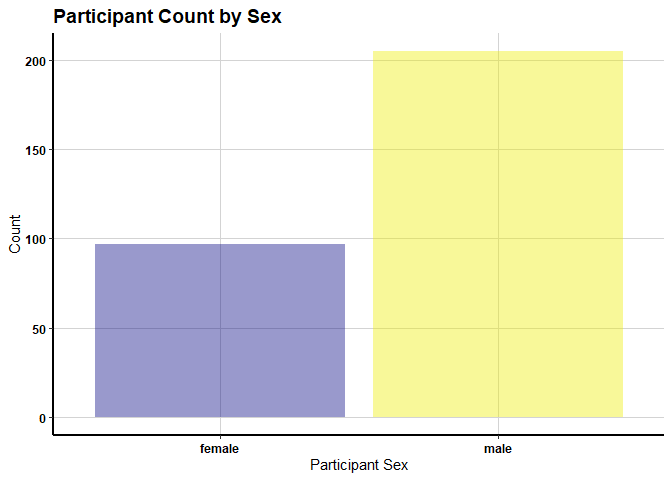
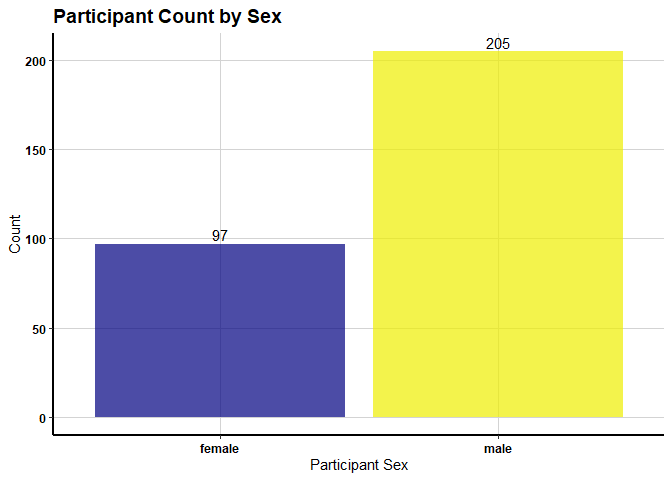
Update histogram

diff --git a/README.md b/README.md
@@ -245,11 +245,6 @@ source("205_Histograms.R", echo = TRUE)
     ## 
     ## > b <- ggplot(CHDgroup, aes(x = age))
     ## 
-    ## > b + geom_histogram(bins = 30)
-
-![](README_files/figure-gfm/histograms-1.png)<!-- -->
-
-    ## 
     ## > b + geom_histogram(bins = 30, color = "black", fill = "navy", 
     ## +     alpha = 0.4) + labs(title = "Participant Count by Age", y = "Count", 
     ## +     x = .... [TRUNCATED]
@@ -290,7 +285,7 @@ source("205_Histograms.R", echo = TRUE)
     ## Warning in grid.Call(C_textBounds, as.graphicsAnnot(x$label), x$x, x$y, :
     ## font family not found in Windows font database
 
-![](README_files/figure-gfm/histograms-2.png)<!-- -->
+![](README_files/figure-gfm/histograms-1.png)<!-- -->
 
     ## 
     ## > ggplot(CHDgroup, aes(sex)) + geom_bar(fill = c("navy", 
@@ -333,7 +328,7 @@ source("205_Histograms.R", echo = TRUE)
     ## Warning in grid.Call(C_textBounds, as.graphicsAnnot(x$label), x$x, x$y, :
     ## font family not found in Windows font database
 
-![](README_files/figure-gfm/histograms-3.png)<!-- -->
+![](README_files/figure-gfm/histograms-2.png)<!-- -->
 
     ## 
     ## > df <- CHDgroup %>% group_by(sex) %>% summarize(counts = n())
@@ -347,9 +342,9 @@ source("205_Histograms.R", echo = TRUE)
     ## 
     ## > c <- ggplot(df, aes(x = sex, y = counts))
     ## 
-    ## > c + geom_bar(stat = "identity") + geom_text(aes(label = counts), 
-    ## +     vjust = -0.3) + labs(title = "Participant Count by Sex", 
-    ## +     y = "Count", .... [TRUNCATED]
+    ## > c + geom_bar(stat = "identity", fill = c("navy", "yellow2"), 
+    ## +     alpha = 0.7) + geom_text(aes(label = counts), vjust = -0.3) + 
+    ## +     labs(title  .... [TRUNCATED]
 
     ## Warning in grid.Call(C_textBounds, as.graphicsAnnot(x$label), x$x, x$y, :
     ## font family not found in Windows font database
@@ -387,26 +382,40 @@ source("205_Histograms.R", echo = TRUE)
     ## Warning in grid.Call(C_textBounds, as.graphicsAnnot(x$label), x$x, x$y, :
     ## font family not found in Windows font database
 
+![](README_files/figure-gfm/histograms-3.png)<!-- -->
+
+    ## 
+    ## > df <- CHDgroup
+    ## 
+    ## > df$sex <- factor(df$sex, levels = levels(df$sex)[order(levels(df$sex), 
+    ## +     decreasing = T)])
+    ## 
+    ## > e <- ggplot(df, aes(x = age))
+    ## 
+    ## > e + geom_histogram(bins = 30, aes(color = sex, fill = sex), 
+    ## +     alpha = 0.4, position = "identity") + scale_color_manual(values = c("navy", 
+    ## +    .... [TRUNCATED]
+
 ![](README_files/figure-gfm/histograms-4.png)<!-- -->
 
     ## 
-    ## > d <- ggplot(CHDgroup, aes(x = age))
-    ## 
-    ## > d + geom_histogram(bins = 30, aes(color = sex), fill = "white", 
-    ## +     position = "identity") + scale_color_manual(values = c("#00AFBB", 
-    ## +     "#E7 ..." ... [TRUNCATED]
+    ## > e + geom_histogram(bins = 30, aes(color = sex, fill = sex), 
+    ## +     alpha = 0.4, position = "identity") + labs(title = "Participant Count by Sex and  ..." ... [TRUNCATED]
 
 ![](README_files/figure-gfm/histograms-5.png)<!-- -->
 
     ## 
-    ## > d + geom_histogram(aes(color = sex, fill = sex), alpha = 0.4, 
-    ## +     position = "identity") + labs(title = "Participant Count by Age and Sex", 
-    ## +    .... [TRUNCATED]
+    ## > e + geom_histogram(bins = 30, aes(color = sex, fill = sex), 
+    ## +     alpha = 0.4, position = "identity") + labs(title = "Participant Count by Sex and  ..." ... [TRUNCATED]
 
-    ## `stat_bin()` using `bins = 30`. Pick better value with `binwidth`.
-
-    ## Warning in grid.Call(C_textBounds, as.graphicsAnnot(x$label), x$x, x$y, :
-    ## font family not found in Windows font database
+    ## Warning in grid.Call(C_stringMetric, as.graphicsAnnot(x$label)): font
+    ## family not found in Windows font database
+    
+    ## Warning in grid.Call(C_stringMetric, as.graphicsAnnot(x$label)): font
+    ## family not found in Windows font database
+    
+    ## Warning in grid.Call(C_stringMetric, as.graphicsAnnot(x$label)): font
+    ## family not found in Windows font database
 
     ## Warning in grid.Call(C_stringMetric, as.graphicsAnnot(x$label)): font
     ## family not found in Windows font database
@@ -425,16 +434,10 @@ source("205_Histograms.R", echo = TRUE)
     
     ## Warning in grid.Call(C_textBounds, as.graphicsAnnot(x$label), x$x, x$y, :
     ## font family not found in Windows font database
-    
-    ## Warning in grid.Call(C_textBounds, as.graphicsAnnot(x$label), x$x, x$y, :
-    ## font family not found in Windows font database
-    
-    ## Warning in grid.Call(C_textBounds, as.graphicsAnnot(x$label), x$x, x$y, :
-    ## font family not found in Windows font database
-    
-    ## Warning in grid.Call(C_textBounds, as.graphicsAnnot(x$label), x$x, x$y, :
-    ## font family not found in Windows font database
-    
+
+    ## Warning in grid.Call.graphics(C_text, as.graphicsAnnot(x$label), x$x,
+    ## x$y, : font family not found in Windows font database
+
     ## Warning in grid.Call(C_textBounds, as.graphicsAnnot(x$label), x$x, x$y, :
     ## font family not found in Windows font database
     
@@ -454,80 +457,6 @@ source("205_Histograms.R", echo = TRUE)
     ## font family not found in Windows font database
 
 ![](README_files/figure-gfm/histograms-6.png)<!-- -->
-
-    ## 
-    ## > df <- CHDgroup
-    ## 
-    ## > df$sex <- factor(df$sex, levels = levels(df$sex)[order(levels(df$sex), 
-    ## +     decreasing = T)])
-    ## 
-    ## > e <- ggplot(df, aes(x = age))
-    ## 
-    ## > e + geom_histogram(bins = 30, aes(color = sex, fill = sex), 
-    ## +     alpha = 0.4, position = "identity") + scale_color_manual(values = c("navy", 
-    ## +    .... [TRUNCATED]
-
-![](README_files/figure-gfm/histograms-7.png)<!-- -->
-
-    ## 
-    ## > e + geom_histogram(bins = 30, aes(color = sex, fill = sex), 
-    ## +     alpha = 0.4, position = "identity") + labs(title = "Participant Count by Sex and  ..." ... [TRUNCATED]
-
-![](README_files/figure-gfm/histograms-8.png)<!-- -->
-
-    ## 
-    ## > e + geom_histogram(bins = 30, aes(color = sex, fill = sex), 
-    ## +     alpha = 0.4, position = "identity") + labs(title = "Participant Count by Sex and  ..." ... [TRUNCATED]
-
-    ## Warning in grid.Call(C_stringMetric, as.graphicsAnnot(x$label)): font
-    ## family not found in Windows font database
-    
-    ## Warning in grid.Call(C_stringMetric, as.graphicsAnnot(x$label)): font
-    ## family not found in Windows font database
-    
-    ## Warning in grid.Call(C_stringMetric, as.graphicsAnnot(x$label)): font
-    ## family not found in Windows font database
-    
-    ## Warning in grid.Call(C_stringMetric, as.graphicsAnnot(x$label)): font
-    ## family not found in Windows font database
-    
-    ## Warning in grid.Call(C_stringMetric, as.graphicsAnnot(x$label)): font
-    ## family not found in Windows font database
-    
-    ## Warning in grid.Call(C_stringMetric, as.graphicsAnnot(x$label)): font
-    ## family not found in Windows font database
-    
-    ## Warning in grid.Call(C_stringMetric, as.graphicsAnnot(x$label)): font
-    ## family not found in Windows font database
-    
-    ## Warning in grid.Call(C_stringMetric, as.graphicsAnnot(x$label)): font
-    ## family not found in Windows font database
-    
-    ## Warning in grid.Call(C_stringMetric, as.graphicsAnnot(x$label)): font
-    ## family not found in Windows font database
-
-    ## Warning in grid.Call.graphics(C_text, as.graphicsAnnot(x$label), x$x,
-    ## x$y, : font family not found in Windows font database
-
-    ## Warning in grid.Call(C_textBounds, as.graphicsAnnot(x$label), x$x, x$y, :
-    ## font family not found in Windows font database
-    
-    ## Warning in grid.Call(C_textBounds, as.graphicsAnnot(x$label), x$x, x$y, :
-    ## font family not found in Windows font database
-
-    ## Warning in grid.Call.graphics(C_text, as.graphicsAnnot(x$label), x$x,
-    ## x$y, : font family not found in Windows font database
-
-    ## Warning in grid.Call(C_textBounds, as.graphicsAnnot(x$label), x$x, x$y, :
-    ## font family not found in Windows font database
-    
-    ## Warning in grid.Call(C_textBounds, as.graphicsAnnot(x$label), x$x, x$y, :
-    ## font family not found in Windows font database
-    
-    ## Warning in grid.Call(C_textBounds, as.graphicsAnnot(x$label), x$x, x$y, :
-    ## font family not found in Windows font database
-
-![](README_files/figure-gfm/histograms-9.png)<!-- -->
 
 ## Publication Request:
 
